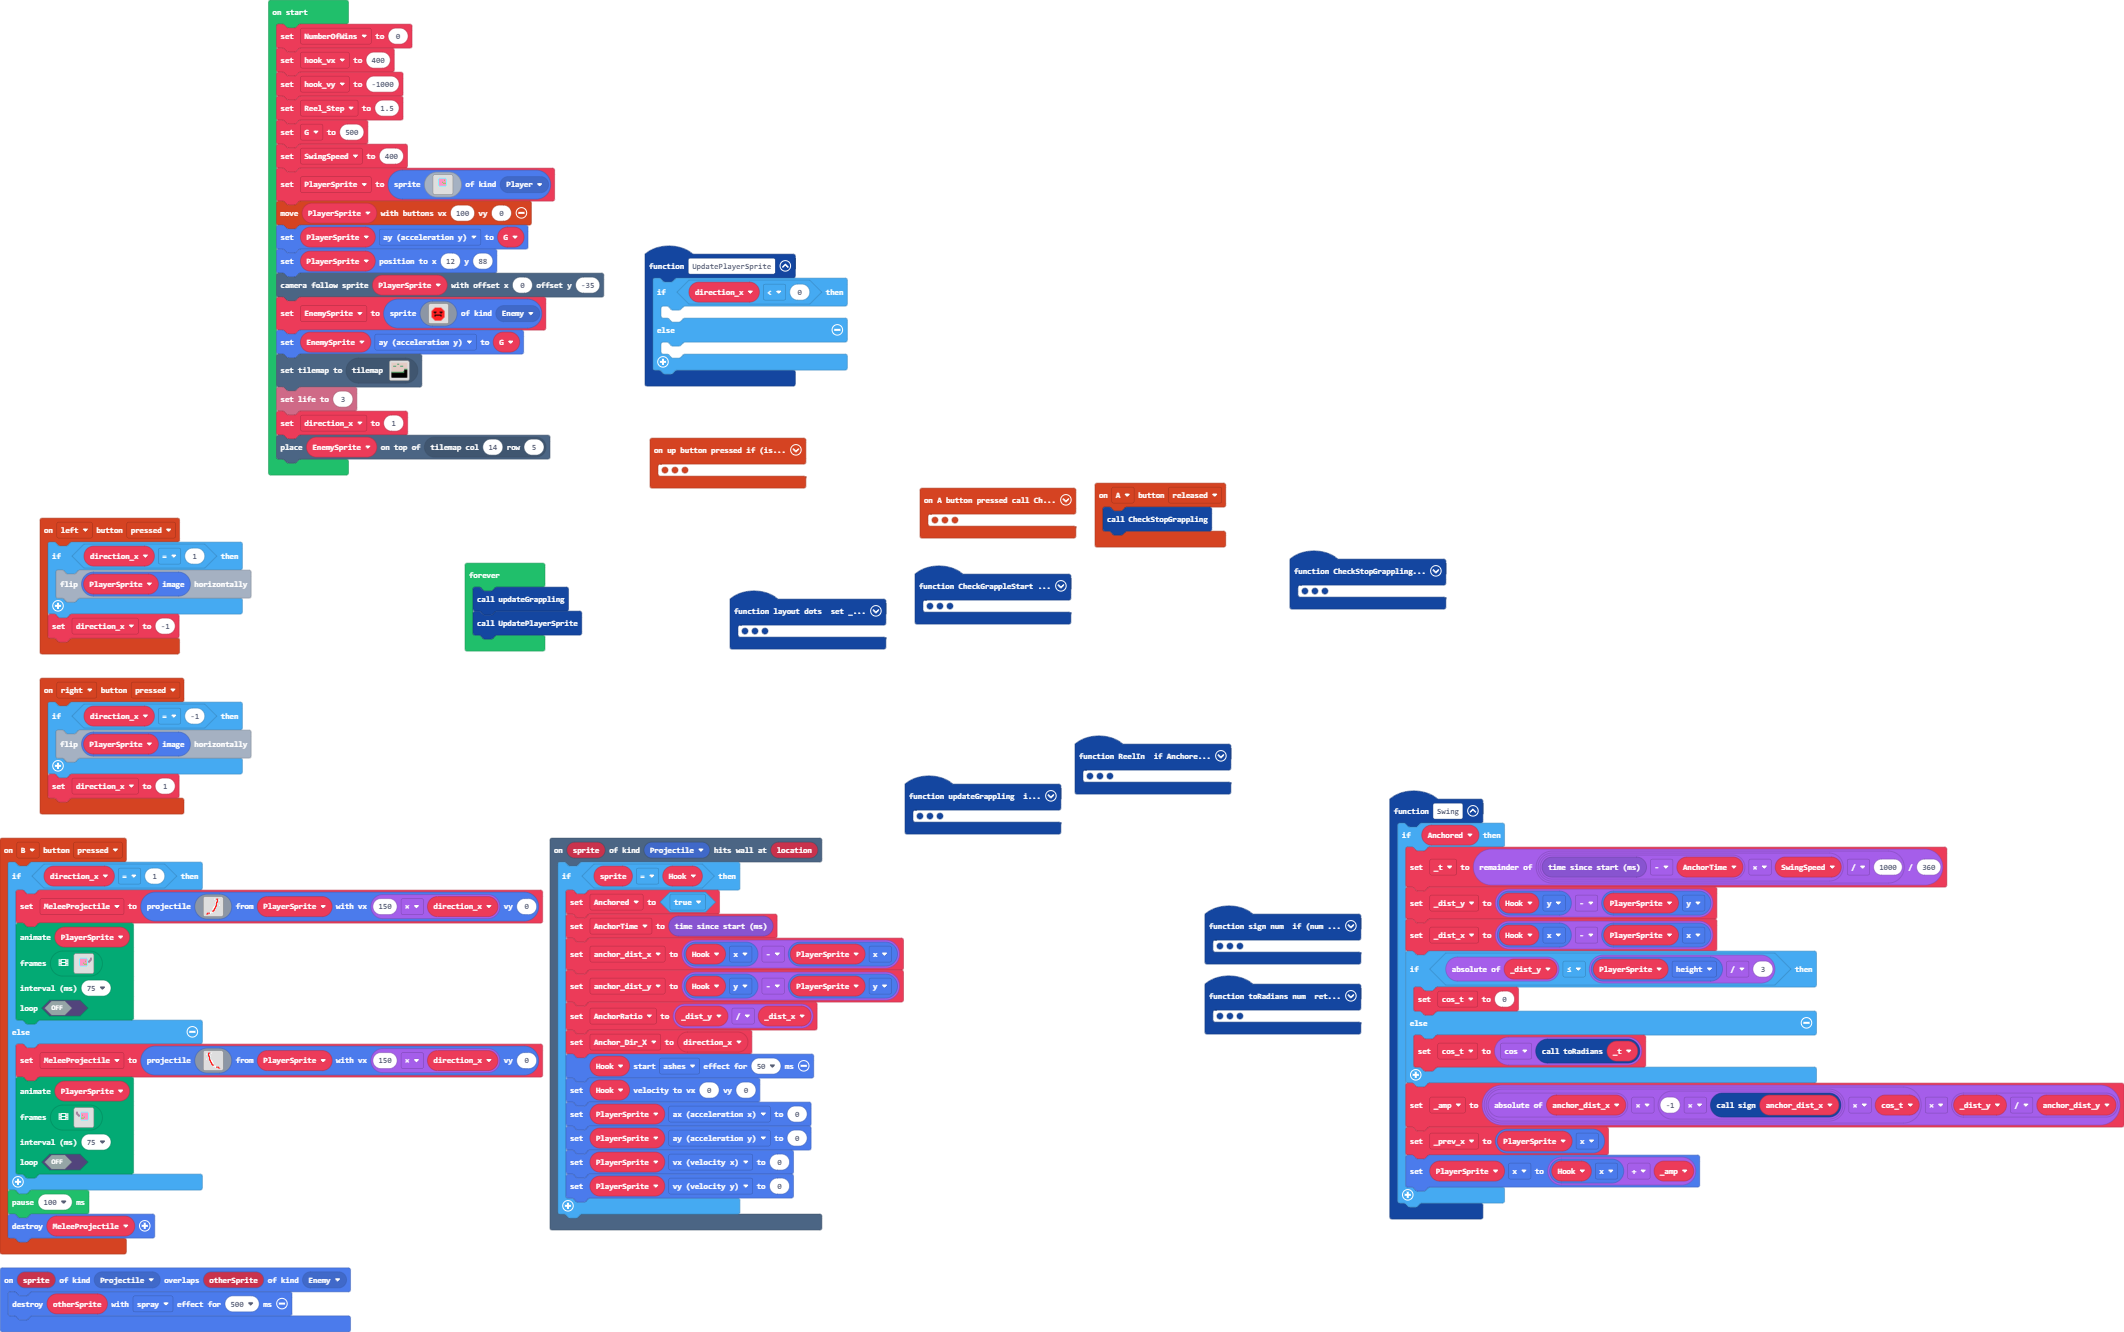
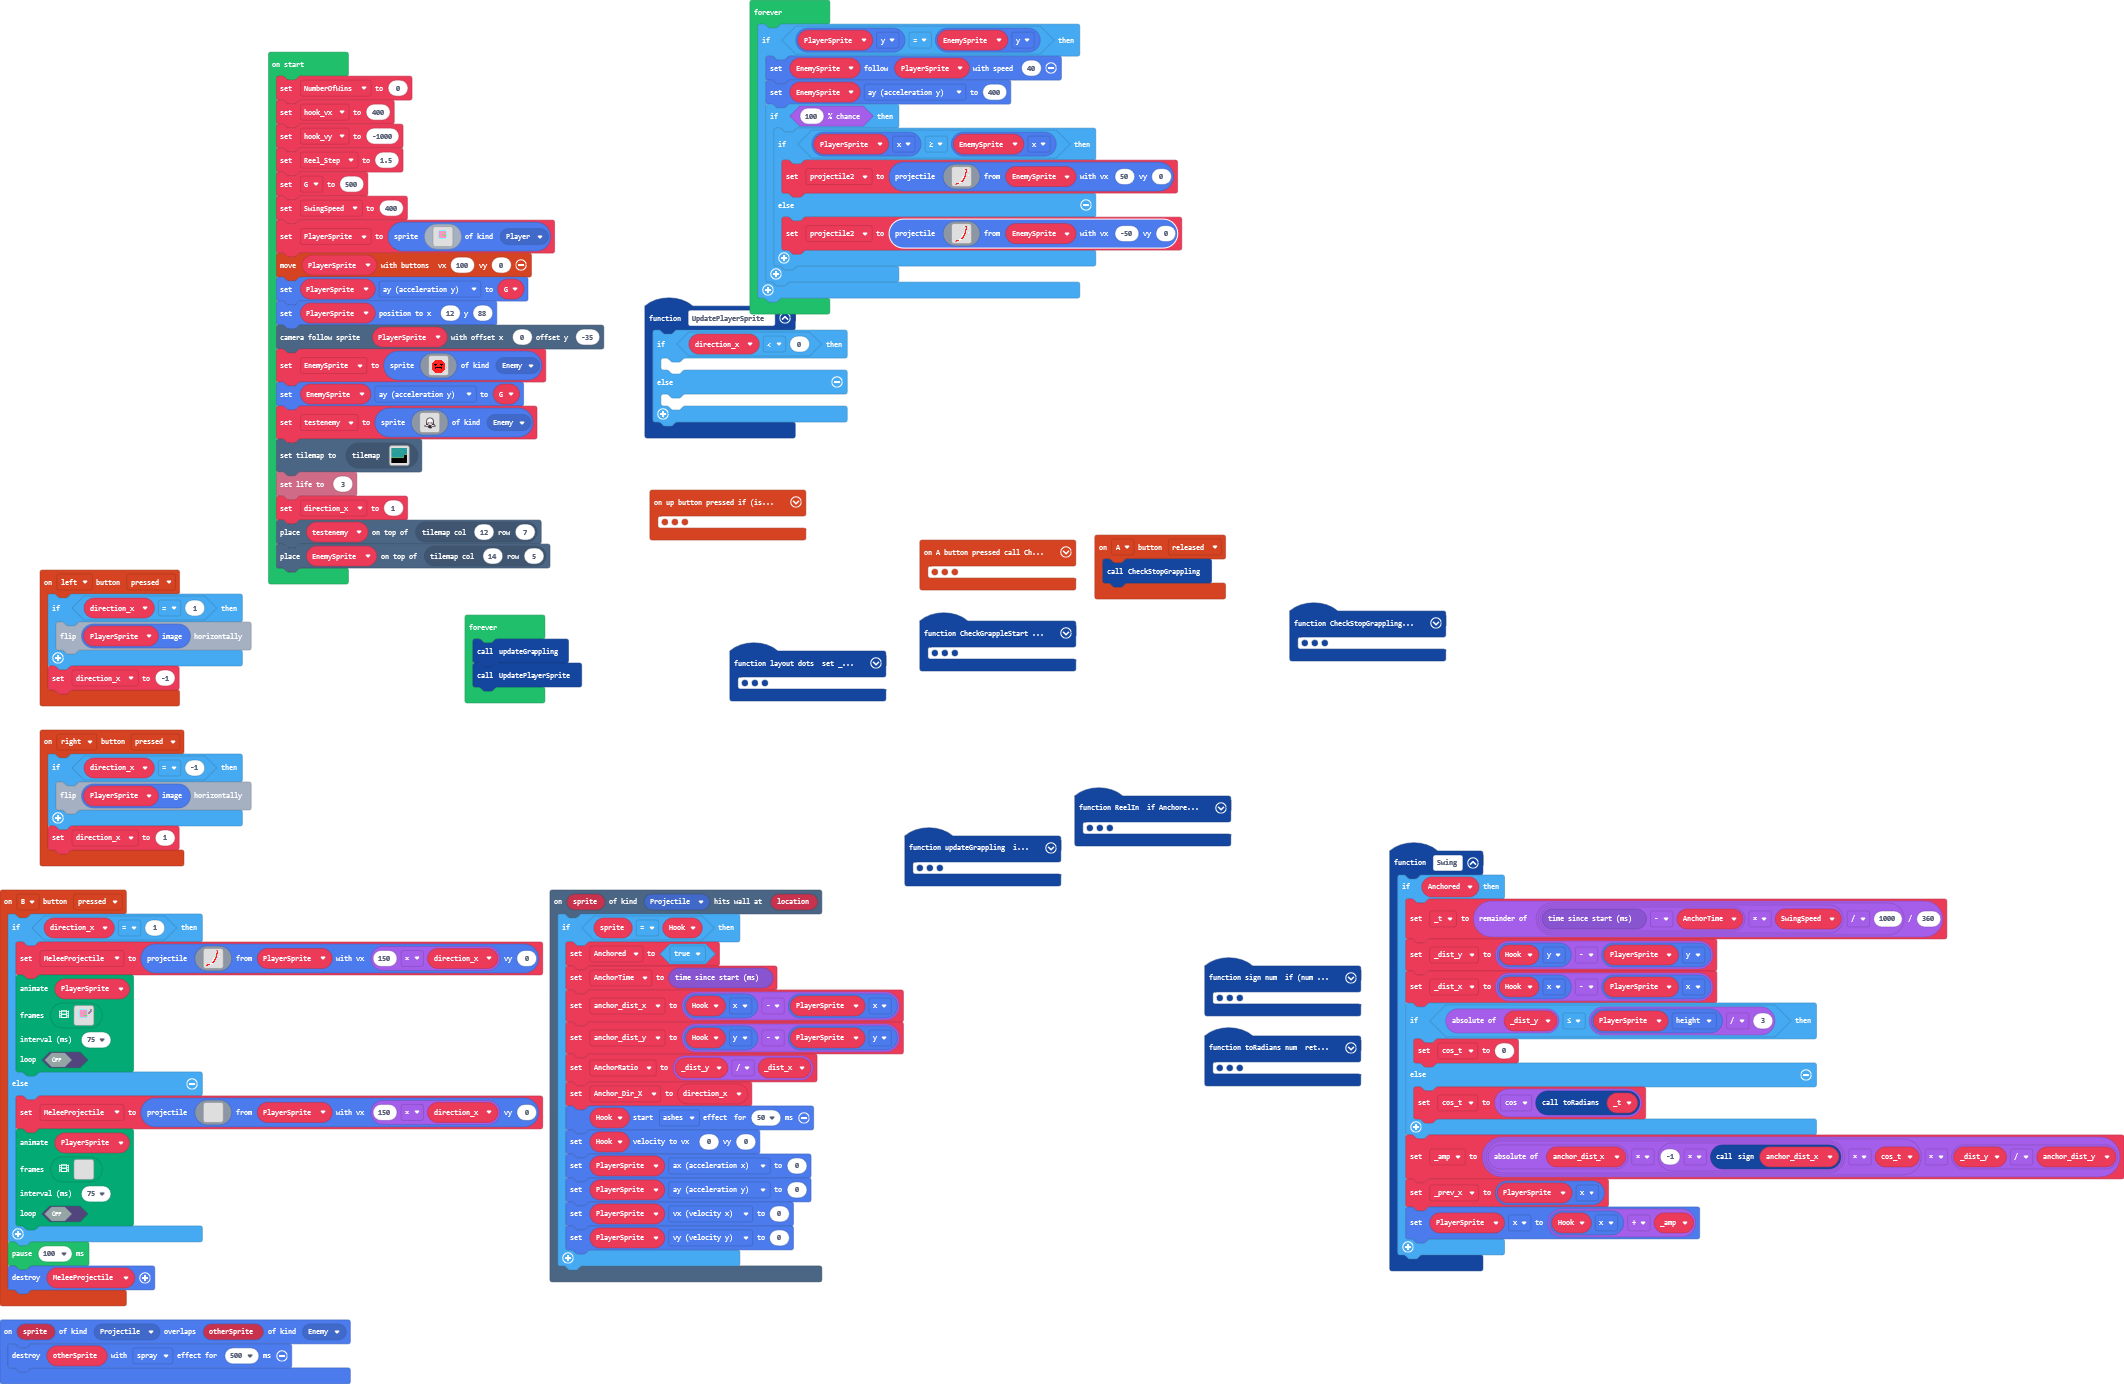
Update main.blocks, main.ts, images.g.jres, images.g.ts, tilemap.g.jres, tilemap.g.ts

Changed region(s): [[0.0, 0.0, 0.5904, 0.985], [0.5593, 0.5848, 1.0, 0.9234], [0.3418, 0.3386, 0.6836, 0.5233]]

diff --git a/images.g.ts b/images.g.ts
@@ -41,23 +41,6 @@ namespace myImages {
 . . 2 2 2 1 . . . . . . . . . . 
 . 2 2 . . . . . . . . . . . . . 
 `;
-            case "image1":
-            case "TestEnemy":return img`
-. . . . . . . . . . . . . . . . 
-. . . . 2 2 2 2 2 2 2 . . . . . 
-. . . 2 2 2 2 2 2 2 2 2 . . . . 
-. . 2 2 2 2 2 2 2 2 2 2 2 . . . 
-. 2 2 2 2 2 2 2 2 2 2 2 2 2 . . 
-. 2 2 f f f 2 2 2 f f f 2 2 . . 
-. 2 2 2 f 2 2 2 2 2 f 2 2 2 . . 
-. 2 2 2 2 2 2 2 2 2 2 2 2 2 . . 
-. 2 2 2 f f f f f f f 2 2 2 . . 
-. 2 2 2 f 2 2 2 2 2 f 2 2 2 . . 
-. 2 2 2 2 2 2 2 2 2 2 2 2 2 . . 
-. . 2 2 2 2 2 2 2 2 2 2 2 . . . 
-. . . 2 2 2 2 2 2 2 2 2 . . . . 
-. . . . 2 2 2 2 2 2 2 . . . . . 
-`;
             case "){P:#`Smtgi5IlU]`09u":
             case "GrappleRopeBit":return img`
 . . . . . . . . . . . . . . . . 
@@ -134,43 +117,22 @@ namespace myImages {
 . . . . . . . . . . . . . . . . 
 . . . . . . . . . . . . . . . . 
 `;
-            case "image5":
-            case "PlayerCharacterFaceLeft":return img`
+            case "image1":
+            case "TestEnemy":return img`
 . . . . . . . . . . . . . . . . 
-. . . . 9 9 9 9 9 9 9 . . . . . 
-. . . 9 3 3 3 3 3 3 3 9 . . . . 
-. . . 9 3 3 7 3 3 3 3 9 . . . . 
-. . . 9 3 3 3 3 3 3 3 9 . . . . 
-. . . 9 3 3 3 7 3 3 3 9 . . . . 
-. . . 9 7 7 7 3 3 3 3 9 . . . . 
-. . . 9 3 3 3 3 3 3 3 9 . . . . 
-. . . 9 3 3 3 3 3 3 3 9 . . . . 
-. . . . 9 9 9 9 9 9 9 . . . . . 
-. . . . . . . . . . . . . . . . 
-. . . . . . . . . . . . . . . . 
-. . . . . . . . . . . . . . . . 
-. . . . . . . . . . . . . . . . 
-. . . . . . . . . . . . . . . . 
-. . . . . . . . . . . . . . . . 
-`;
-            case "image6":
-            case "AttackArcLeft":return img`
-. . . 2 2 . 1 . . . . . . . . . 
-. 1 . 2 . . . . . . . . . . . . 
-. . . 2 . . . . . . . . . . . . 
-. . . 2 2 1 . . . . . . . . . . 
-. . . . 2 . . . . . . . . . . . 
-. . . . 2 . . . . . . . . . . . 
-. 1 . . 2 . . . . . . . . . . . 
-. . . . 2 2 1 . . . . . . . . . 
-. . . . . 2 1 1 . . . . . . . . 
-. . . . . 2 2 1 . . . . . . . . 
-. . . . . . 2 . 1 . . . . . . . 
-. . . . . . 2 2 . . . . . . . . 
-. . . . . . . 2 2 . . . . . . . 
-. . . . . . . . 1 1 1 . . . . . 
-. . . . . . . . . . 1 2 2 2 . . 
-. . . . . . . . . . . . . 2 2 . 
+. . . . 2 2 2 2 2 2 2 . . . . . 
+. . . 2 2 2 2 2 2 2 2 2 . . . . 
+. . 2 2 2 2 2 2 2 2 2 2 2 . . . 
+. 2 2 2 2 2 2 2 2 2 2 2 2 2 . . 
+. 2 2 f f f 2 2 2 f f f 2 2 . . 
+. 2 2 2 f 2 2 2 2 2 f 2 2 2 . . 
+. 2 2 2 2 2 2 2 2 2 2 2 2 2 . . 
+. 2 2 2 f f f f f f f 2 2 2 . 3 
+. 2 2 2 f 2 2 2 2 2 f 2 2 2 . . 
+. 2 2 2 2 2 2 2 2 2 2 2 2 2 . . 
+. . 2 2 2 2 2 2 2 2 2 2 2 . . . 
+. . . 2 2 2 2 2 2 2 2 2 . . . . 
+. . . . 2 2 2 2 2 2 2 . . . . . 
 `;
         }
         return null;
@@ -225,59 +187,6 @@ namespace myImages {
 . . . 9 3 3 3 3 7 7 7 9 . . . . 
 . . . 9 3 3 3 3 3 3 3 9 . . . . 
 . . . . 9 9 9 9 9 9 9 . . . . . 
-. . . . . . . . . . . . . . . . 
-. . . . . . . . . . . . . . . . 
-. . . . . . . . . . . . . . . . 
-. . . . . . . . . . . . . . . . 
-. . . . . . . . . . . . . . . . 
-`];
-            case "SwingAttackLeft":
-            case "anim2":return [img`
-. . . . . . . . . . . . . . . . 
-. . . . . . . . . . . . . . . . 
-b b . . . 9 9 9 9 9 9 9 . . . . 
-b b . . 9 3 3 3 3 3 3 3 9 . . . 
-b b b . 9 3 3 3 3 3 3 3 9 . . . 
-. b b b 9 3 7 3 3 3 3 3 9 . . . 
-. . b b 9 3 3 3 3 3 3 3 9 . . . 
-. . . . 9 3 3 3 7 3 3 3 9 . . . 
-. . . . 9 7 7 7 3 3 3 3 9 . . . 
-. . . . 9 3 3 3 3 3 3 3 9 . . . 
-. . . . . 9 9 9 9 9 9 9 . . . . 
-. . . . . . . . . . . . . . . . 
-. . . . . . . . . . . . . . . . 
-. . . . . . . . . . . . . . . . 
-. . . . . . . . . . . . . . . . 
-. . . . . . . . . . . . . . . . 
-`, img`
-. . . . . . . . . . . . . . . . 
-. . . . . . . . . . . . . . . . 
-. . . . . 9 9 9 9 9 9 9 . . . . 
-. . . . 9 3 3 3 3 3 3 3 9 . . . 
-. . . . 9 3 3 3 3 3 3 3 9 . . . 
-. . . . 9 3 7 3 3 3 3 3 9 . . . 
-b . . . 9 3 3 3 3 3 3 3 9 . . . 
-b b b . 9 3 3 3 7 3 3 3 9 . . . 
-. b b b 9 7 7 7 3 3 3 3 9 . . . 
-. . . b 9 3 3 3 3 3 3 3 9 . . . 
-. . . . . 9 9 9 9 9 9 9 . . . . 
-. . . . . . . . . . . . . . . . 
-. . . . . . . . . . . . . . . . 
-. . . . . . . . . . . . . . . . 
-. . . . . . . . . . . . . . . . 
-. . . . . . . . . . . . . . . . 
-`, img`
-. . . . . . . . . . . . . . . . 
-. . . . . . . . . . . . . . . . 
-. . . . . 9 9 9 9 9 9 9 . . . . 
-. . . . 9 3 3 3 3 3 3 3 9 . . . 
-. . . . 9 3 3 3 3 3 3 3 9 . . . 
-. . . . 9 3 7 3 3 3 3 3 9 . . . 
-. . . . 9 3 3 3 3 3 3 3 9 . . . 
-. . . . 9 3 3 3 7 3 3 3 9 . . . 
-. . . . 9 7 7 7 3 3 3 3 9 . . . 
-. . . . 9 3 3 3 3 3 3 3 9 . . . 
-. . . . . 9 9 9 9 9 9 9 . . . . 
 . . . . . . . . . . . . . . . . 
 . . . . . . . . . . . . . . . . 
 . . . . . . . . . . . . . . . . 

diff --git a/main.ts b/main.ts
@@ -18,10 +18,44 @@ controller.B.onEvent(ControllerButtonEvent.Pressed, function () {
         false
         )
     } else {
-        MeleeProjectile = sprites.createProjectileFromSprite(assets.image`AttackArcLeft`, PlayerSprite, 150 * direction_x, 0)
+        MeleeProjectile = sprites.createProjectileFromSprite(img`
+            . . . . . . . . . . . . . . . . 
+            . . . . . . . . . . . . . . . . 
+            . . . . . . . . . . . . . . . . 
+            . . . . . . . . . . . . . . . . 
+            . . . . . . . . . . . . . . . . 
+            . . . . . . . . . . . . . . . . 
+            . . . . . . . . . . . . . . . . 
+            . . . . . . . . . . . . . . . . 
+            . . . . . . . . . . . . . . . . 
+            . . . . . . . . . . . . . . . . 
+            . . . . . . . . . . . . . . . . 
+            . . . . . . . . . . . . . . . . 
+            . . . . . . . . . . . . . . . . 
+            . . . . . . . . . . . . . . . . 
+            . . . . . . . . . . . . . . . . 
+            . . . . . . . . . . . . . . . . 
+            `, PlayerSprite, 150 * direction_x, 0)
         animation.runImageAnimation(
         PlayerSprite,
-        assets.animation`SwingAttackLeft`,
+        [img`
+            . . . . . . . . . . . . . . . . 
+            . . . . . . . . . . . . . . . . 
+            . . . . . . . . . . . . . . . . 
+            . . . . . . . . . . . . . . . . 
+            . . . . . . . . . . . . . . . . 
+            . . . . . . . . . . . . . . . . 
+            . . . . . . . . . . . . . . . . 
+            . . . . . . . . . . . . . . . . 
+            . . . . . . . . . . . . . . . . 
+            . . . . . . . . . . . . . . . . 
+            . . . . . . . . . . . . . . . . 
+            . . . . . . . . . . . . . . . . 
+            . . . . . . . . . . . . . . . . 
+            . . . . . . . . . . . . . . . . 
+            . . . . . . . . . . . . . . . . 
+            . . . . . . . . . . . . . . . . 
+            `],
         75,
         false
         )
@@ -181,6 +215,7 @@ function UpdatePlayerSprite () {
 sprites.onOverlap(SpriteKind.Projectile, SpriteKind.Enemy, function (sprite, otherSprite) {
     sprites.destroy(otherSprite, effects.spray, 500)
 })
+let projectile2: Sprite = null
 let Anchor_Dir_X = 0
 let AnchorRatio = 0
 let attach: Sprite = null
@@ -223,10 +258,50 @@ PlayerSprite.setPosition(12, 88)
 cameraOffsetScene.cameraFollowWithOffset(PlayerSprite, 0, -35)
 let EnemySprite = sprites.create(assets.image`TestEnemy`, SpriteKind.Enemy)
 EnemySprite.ay = G
+let testenemy = sprites.create(img`
+    ........................
+    ........................
+    ........................
+    ........................
+    ..........ffff..........
+    ........ff1111ff........
+    .......fb111111bf.......
+    .......f11111111f.......
+    ......fd11111111df......
+    ......fd11111111df......
+    ......fddd1111dddf......
+    ......fbdbfddfbdbf......
+    ......fcdcf11fcdcf......
+    .......fb111111bf.......
+    ......fffcdb1bdffff.....
+    ....fc111cbfbfc111cf....
+    ....f1b1b1ffff1b1b1f....
+    ....fbfbffffffbfbfbf....
+    .........ffffff.........
+    ...........fff..........
+    ........................
+    ........................
+    ........................
+    ........................
+    `, SpriteKind.Enemy)
 tiles.setCurrentTilemap(tilemap`level2`)
 info.setLife(3)
 direction_x = 1
+tiles.placeOnTile(testenemy, tiles.getTileLocation(12, 7))
 tiles.placeOnTile(EnemySprite, tiles.getTileLocation(14, 5))
+forever(function () {
+    if (PlayerSprite.y == EnemySprite.y) {
+        EnemySprite.follow(PlayerSprite, 40)
+        EnemySprite.ay = 400
+        if (Math.percentChance(100)) {
+            if (PlayerSprite.x >= EnemySprite.x) {
+                projectile2 = sprites.createProjectileFromSprite(assets.image`AttackArc`, EnemySprite, 50, 0)
+            } else {
+                projectile2 = sprites.createProjectileFromSprite(assets.image`AttackArc`, EnemySprite, -50, 0)
+            }
+        }
+    }
+})
 forever(function () {
     updateGrappling()
     UpdatePlayerSprite()

diff --git a/tilemap.g.ts b/tilemap.g.ts
@@ -42,7 +42,7 @@ namespace myTiles {
 . . . . . . . . . . . . . . . . 
 . . . . . . . . . . . . . . . . 
 . . . . . . . . . . . . . . . . 
-`, [myTiles.transparency16,sprites.builtin.forestTiles1,sprites.builtin.forestTiles2,sprites.builtin.forestTiles5,sprites.builtin.forestTiles6,sprites.builtin.forestTiles7,sprites.builtin.forestTiles13,sprites.builtin.forestTiles15,sprites.builtin.forestTiles9,sprites.builtin.forestTiles11,sprites.builtin.forestTiles10,sprites.builtin.forestTiles21,sprites.builtin.forestTiles22,sprites.builtin.forestTiles23,sprites.builtin.forestTiles0,sprites.castle.tilePath5], TileScale.Sixteen);
+`, [myTiles.transparency16,sprites.builtin.forestTiles1,sprites.builtin.forestTiles2,sprites.builtin.forestTiles5,sprites.builtin.forestTiles6,sprites.builtin.forestTiles7,sprites.builtin.forestTiles13,sprites.builtin.forestTiles15,sprites.builtin.forestTiles9,sprites.builtin.forestTiles11,sprites.builtin.forestTiles10,sprites.builtin.forestTiles21,sprites.builtin.forestTiles22,sprites.builtin.forestTiles23,sprites.builtin.forestTiles0,sprites.castle.tileDarkGrass3], TileScale.Sixteen);
         }
         return null;
     })
